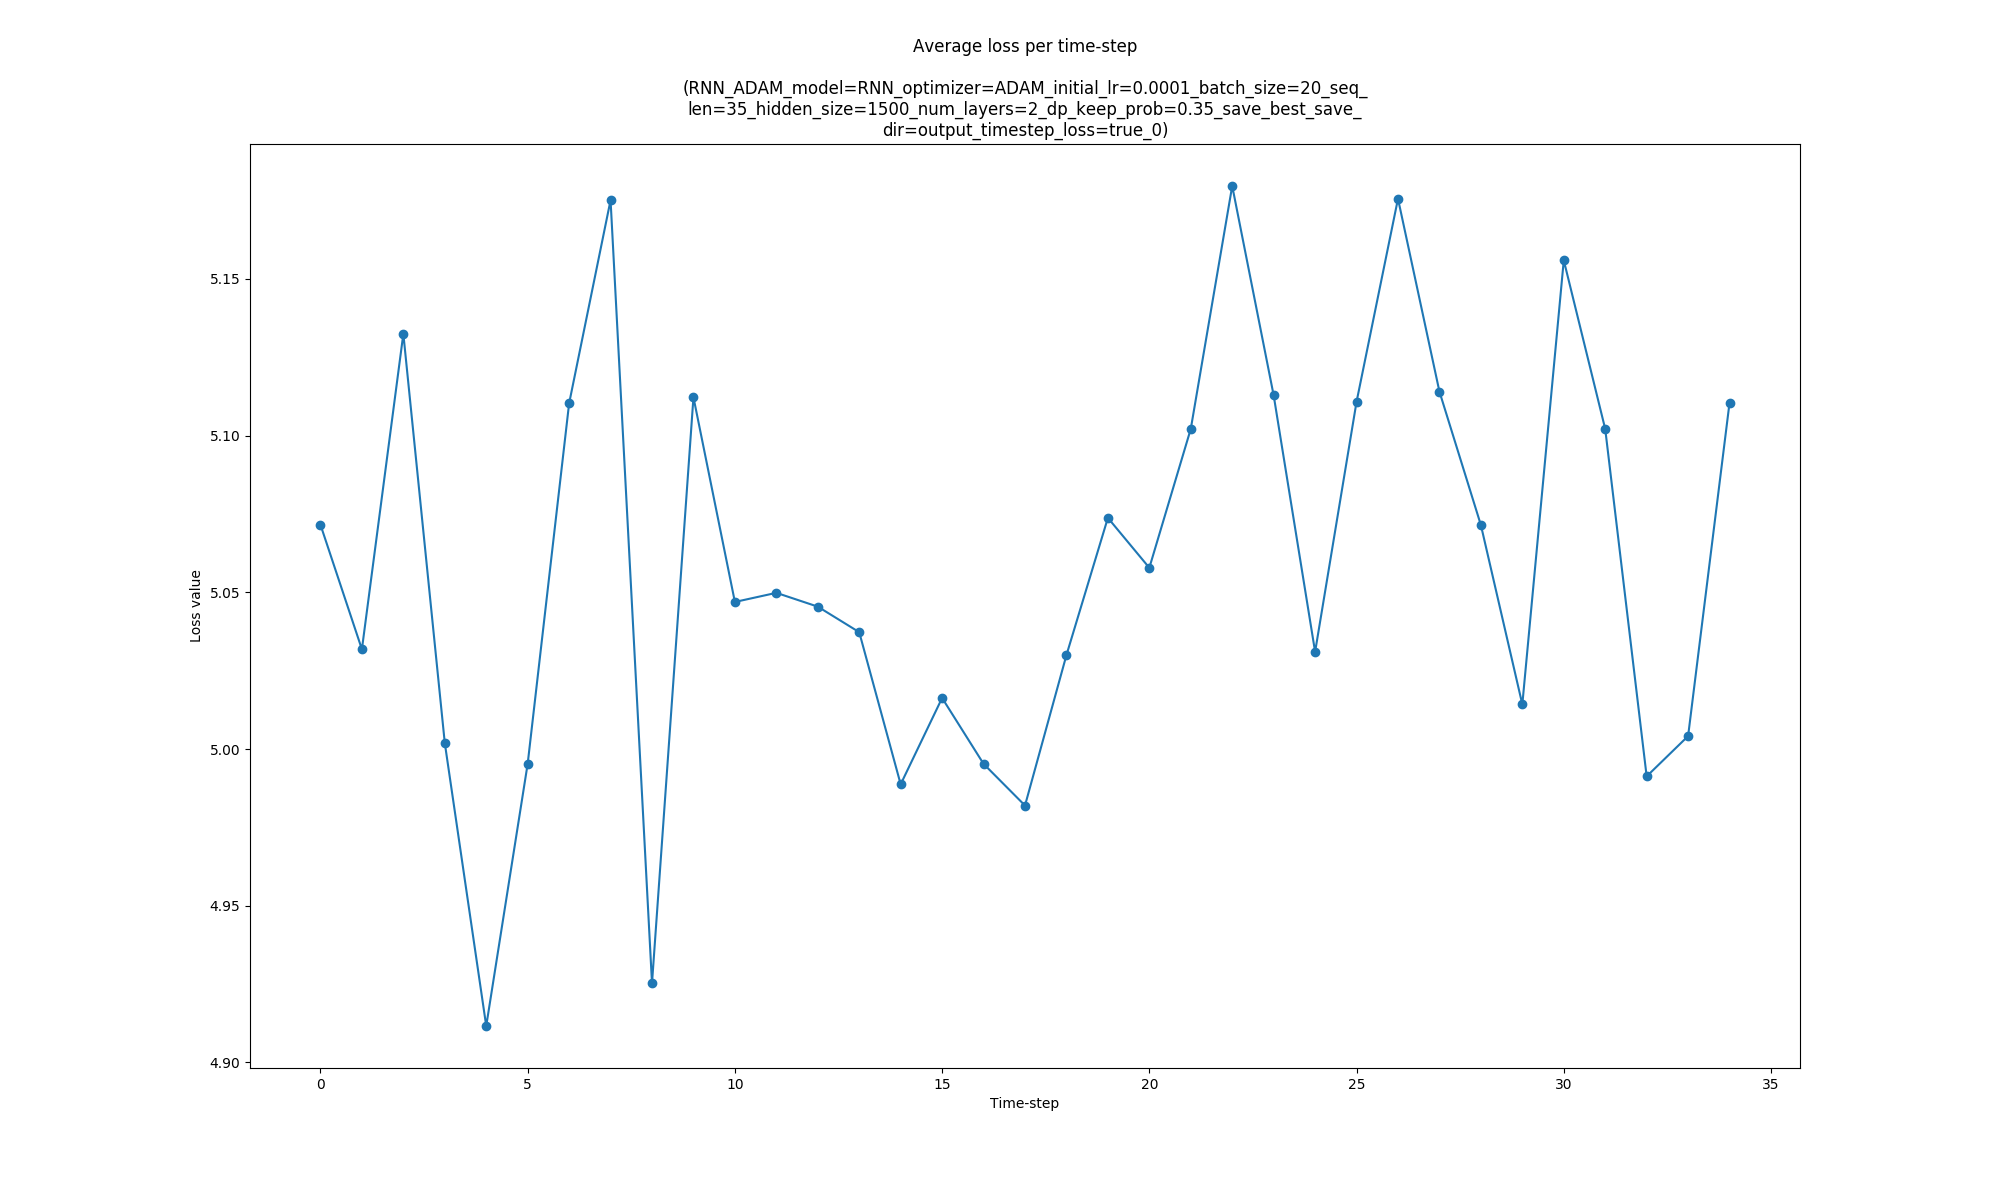
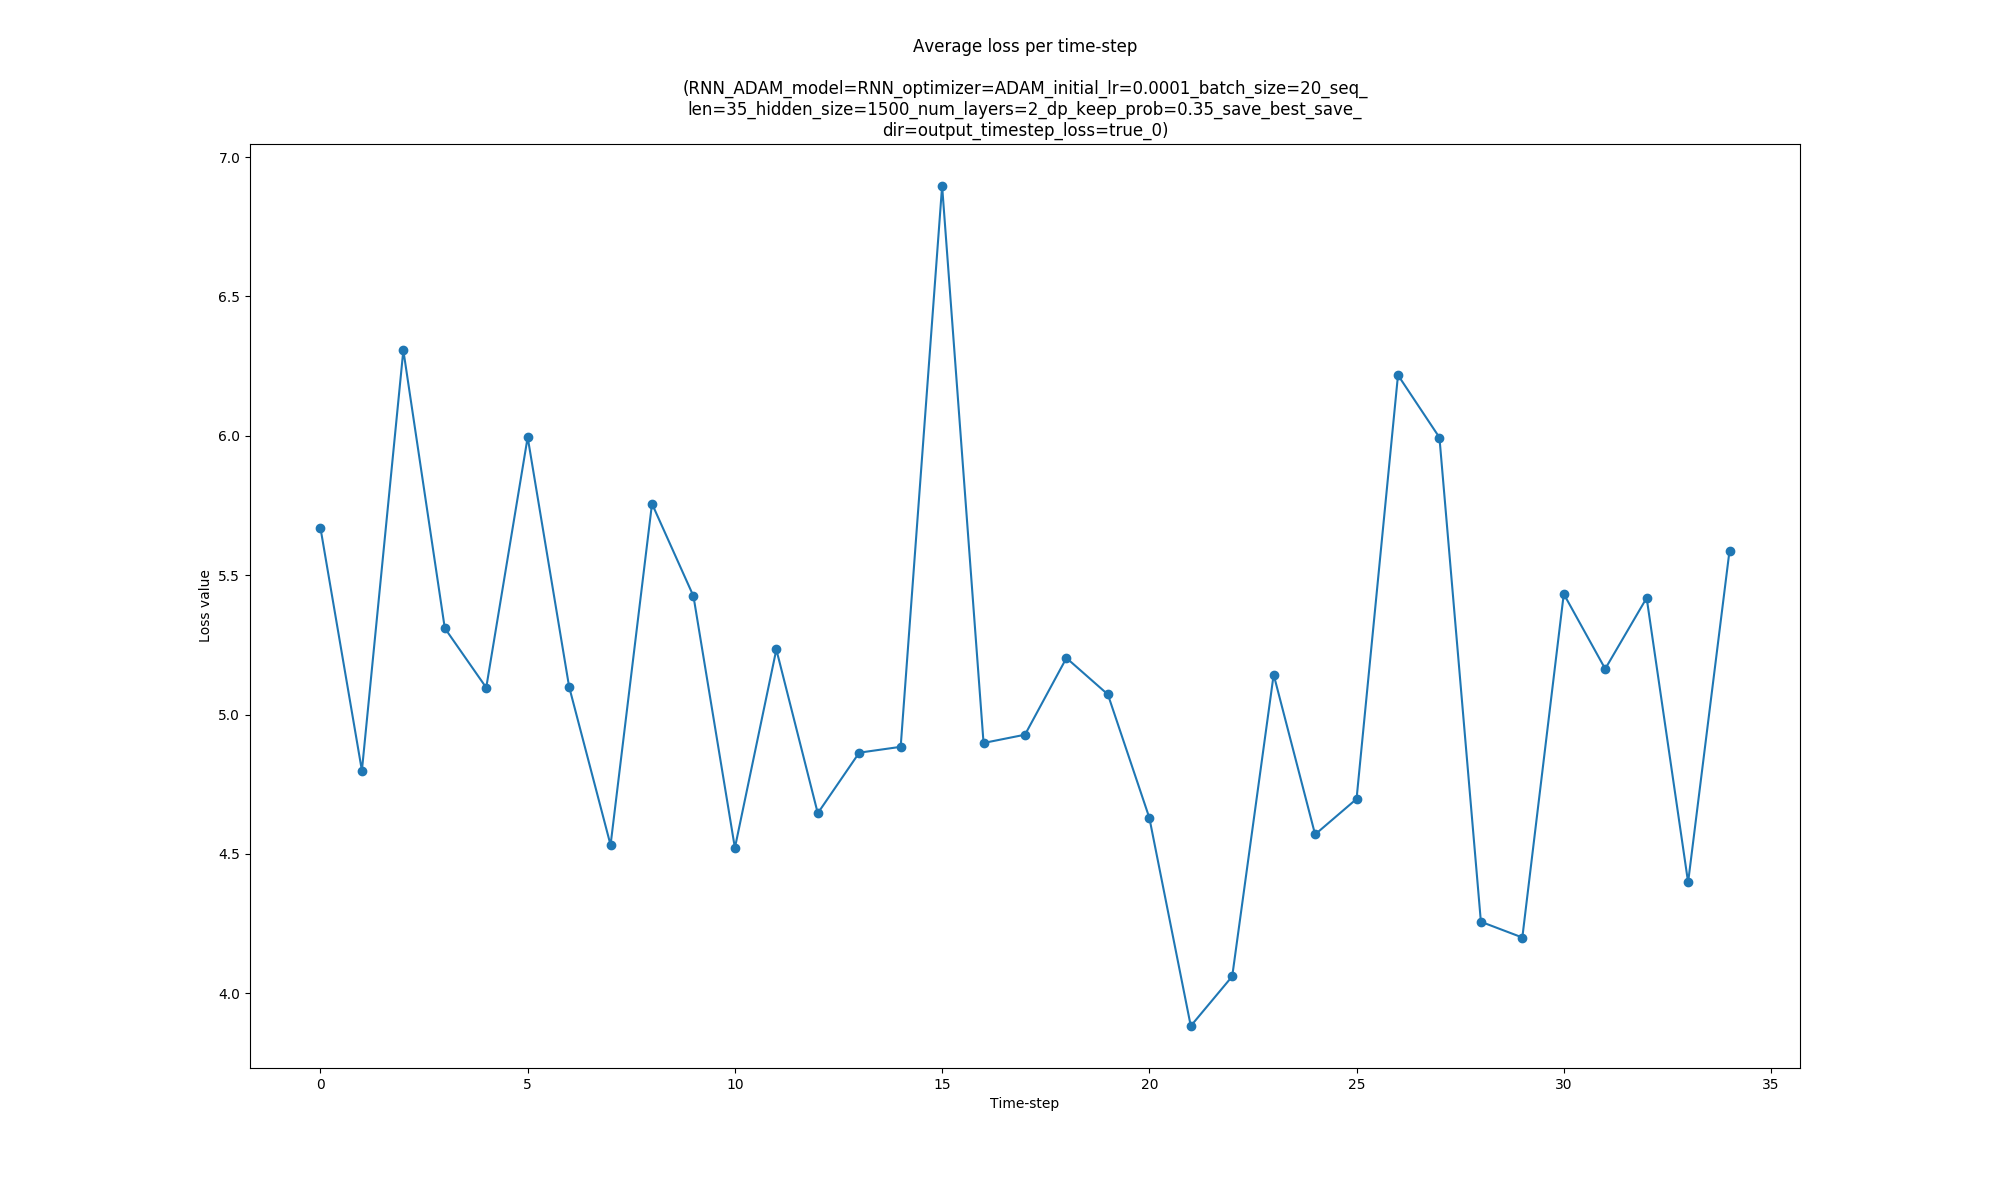
now feeding different xs

diff --git a/average_loss.py b/average_loss.py
@@ -180,56 +180,45 @@ for dir_name in [x[0] for x in os.walk(results_dir)]:
         if args.model != 'TRANSFORMER':
             hidden = model.init_hidden()
             hidden = hidden.to(device)
-        costs = 0.0
-        iters = 0
-        losses = []
         seq_losses = []
 
         # LOOP THROUGH MINIBATCHES
         for step, (x, y) in enumerate(utils.ptb_iterator(data, model.batch_size, model.seq_len)):
+            if step > 0: continue
             if args.model == 'TRANSFORMER':
                 batch = utils.Batch(torch.from_numpy(x).long().to(device))
                 model.zero_grad()
-                outputs = model.forward(batch.data, batch.mask).transpose(1, 0)
                 # print ("outputs.shape", outputs.shape)
             else:
                 inputs = torch.from_numpy(x.astype(np.int64)).transpose(0, 1).contiguous().to(device)  # .cuda()
                 model.zero_grad()
                 hidden = utils.repackage_hidden(hidden)
-                outputs, hidden = model(inputs, hidden)
 
             targets = torch.from_numpy(y.astype(np.int64)).transpose(0, 1).contiguous().to(device)  # .cuda()
-            tt = torch.squeeze(targets.view(-1, model.batch_size * model.seq_len))
-
             # LOSS COMPUTATION
             # This line currently averages across all the sequences in a mini-batch
             # and all time-steps of the sequences.
             # For problem 5.3, you will (instead) need to compute the average loss
             # at each time-step separately.
-            loss = loss_fn(outputs.contiguous().view(-1, model.vocab_size), tt)
-            costs += loss.data.item() * model.seq_len
-            losses.append(costs)
-            iters += model.seq_len
-            if args.debug:
-                print(step, loss)
-            for output, target in zip(outputs, targets):
-                l = loss_fn(output, target)
+            model.seq_len = 1
+            for input, target in zip(inputs, targets):
+                outputs, hidden = model(input.expand(1, input.size(0)), hidden)
+                l = loss_fn(outputs.squeeze(), target)
                 seq_losses.append(l.data.item())
-
-        return np.exp(costs / iters), losses, seq_losses
+        return seq_losses
 
 
     print("\n########## Running Main Loop ##########################")
 
     # RUN MODEL ON VALIDATION DATA
-    val_ppl, val_loss, seq_loss = run_epoch(model, valid_data)
+    seq_loss = run_epoch(model, valid_data)
 
     print('args:', args)
     # LOC RESULTS
-    log_str = 'val ppl: ' + str(val_ppl)
+    log_str = ''
     if len(seq_loss) > 0:
         log_str += '\nAdditional data (modified)'
-        log_str += '\nval_loss={}, \nseq_losses (len={}, sum={}): {}'.format(val_loss, len(seq_loss), sum(seq_loss), seq_loss)
+        log_str += '\nseq_losses (len={}, sum={}): {}'.format(len(seq_loss), sum(seq_loss), seq_loss)
     print(log_str)
 
     sl_path = os.path.join(args['experiment_path'], 'seq_loss.npy')

diff --git a/average_loss_plot.py b/average_loss_plot.py
@@ -14,13 +14,14 @@ for dir_name in [x[0] for x in os.walk(results_dir)]:
     x = np.load(os.path.join(dir_name, 'seq_loss.npy'))
     plt.figure(figsize=(20, 12))
     #timesteps = args['seq_len'] * 3
-    avgs = defaultdict(list)
-    for idx, val in enumerate(x):
-        avgs[idx % args['seq_len']].append(val)
-    l = []
-    for idx in range(args['seq_len']):
-        l.append(np.mean(avgs[idx]))
-    print('l:' , l)
+    #avgs = defaultdict(list)
+    #for idx, val in enumerate(x):
+    #    avgs[idx % args['seq_len']].append(val)
+    #l = []
+    #for idx in range(args['seq_len']):
+    #    l.append(np.mean(avgs[idx]))
+    #print('l:', l)
+    l = x
     plt.plot(l, marker='o')
     plt.title('{}\n\n({})'.format('Average loss per time-step', "\n".join(wrap(args['name']))))
     plt.xlabel("Time-step")

diff --git a/models.py b/models.py
@@ -434,7 +434,7 @@ class GRU(nn.Module):  # Implement a stacked GRU RNN
             # collect the output of hidden layers
             hidden_list = []
 
-            # all other hidden layers: 2, 3 ...
+            # all other hidden layers: 1, 2, 3 ...
             for idx, layer in enumerate(self.hidden_stack):
                 # s_{t-1}
                 layer_hidden_prev = hidden[idx]
